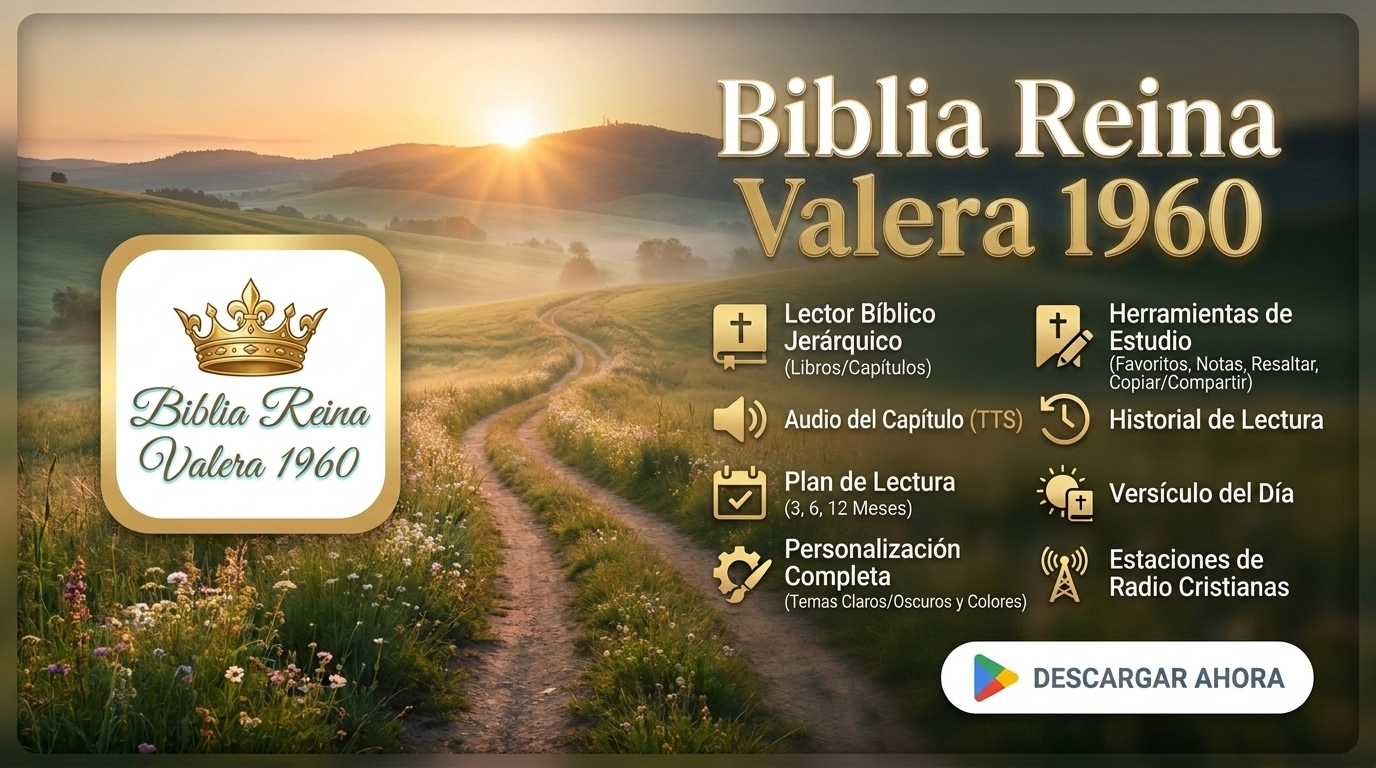
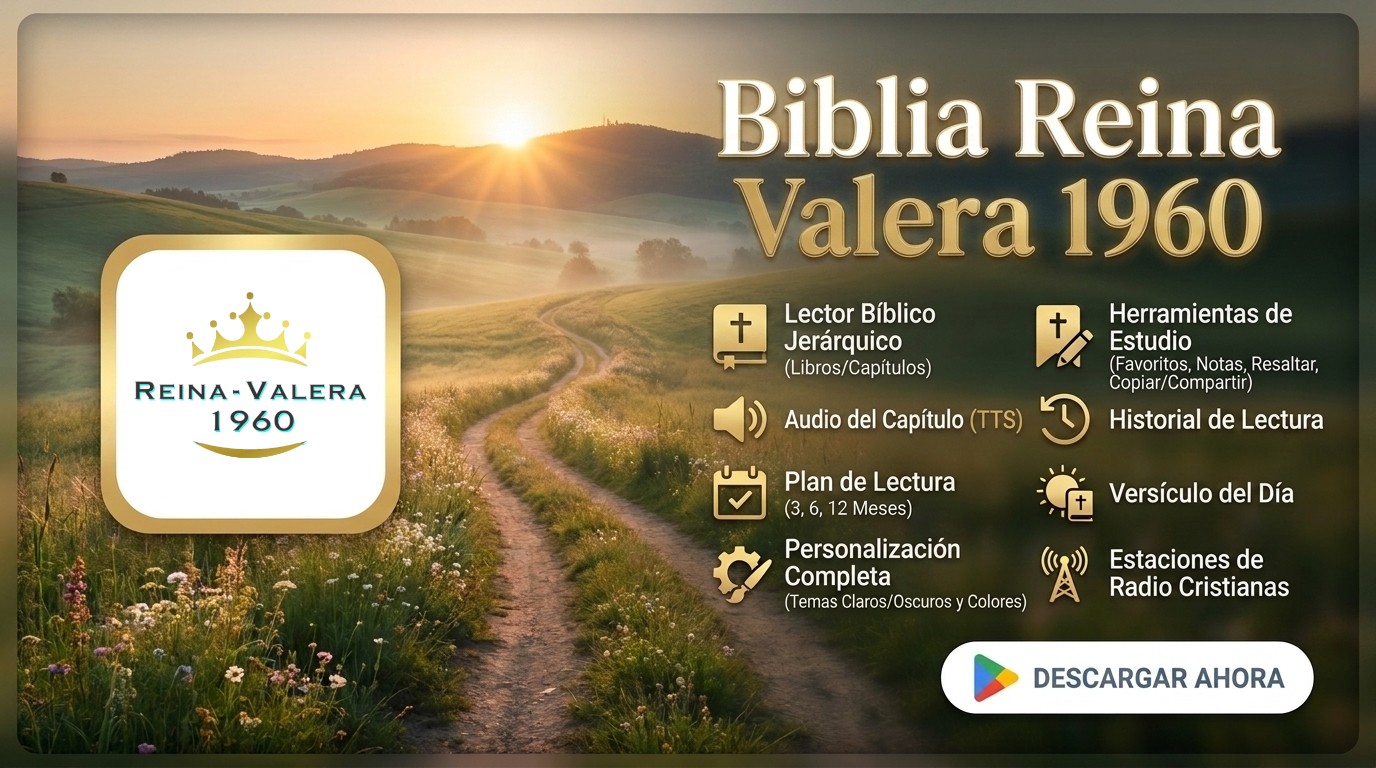
Add files via upload

Changed region(s): [[0.0938, 0.375, 0.2812, 0.625]]

diff --git a/404.html b/404.html
@@ -90,14 +90,14 @@
         }
         .btn:hover { transform: translateY(-1px); }
         .btn-primary {
-            background: #023f6c;
+            background: #ab912d;
             color: #FFFFFF;
             margin-bottom: 12px;
         }
         .btn-secondary {
-            background: #023f6c;
+            background: #ab912d;
             color: #FFFFFF;
-            border: 1px solid #023f6c;
+            border: 1px solid #ab912d;
         }
         .hidden { display: none !important; }
         footer {
@@ -109,7 +109,7 @@
 </head>
 <body>
     <div class="card">
-        <img src="/logo.jpeg" alt="Biblia Reina Valera 1960" class="logo" />
+        <img src="/logo.png" alt="Biblia Reina Valera 1960" class="logo" />
         <h1 id="title">Biblia Reina Valera 1960</h1>
         <p id="desc">Tu Biblia protestante de confianza. Lectura diaria, versículo del día, y comparte la Palabra.</p>
 

diff --git a/index.html b/index.html
@@ -110,7 +110,7 @@
 </head>
 <body>
     <div class="card">
-        <img src="/logo.png" alt="Biblia Reina Valera 1960" class="logo" />
+        <img src="logo.png" alt="Biblia Reina Valera 1960" class="logo" />
         <h1 id="title">Biblia Reina Valera 1960</h1>
         <p id="desc">Tu Biblia de confianza. Lectura diaria, versículo del día, y comparte la Palabra.</p>
 
